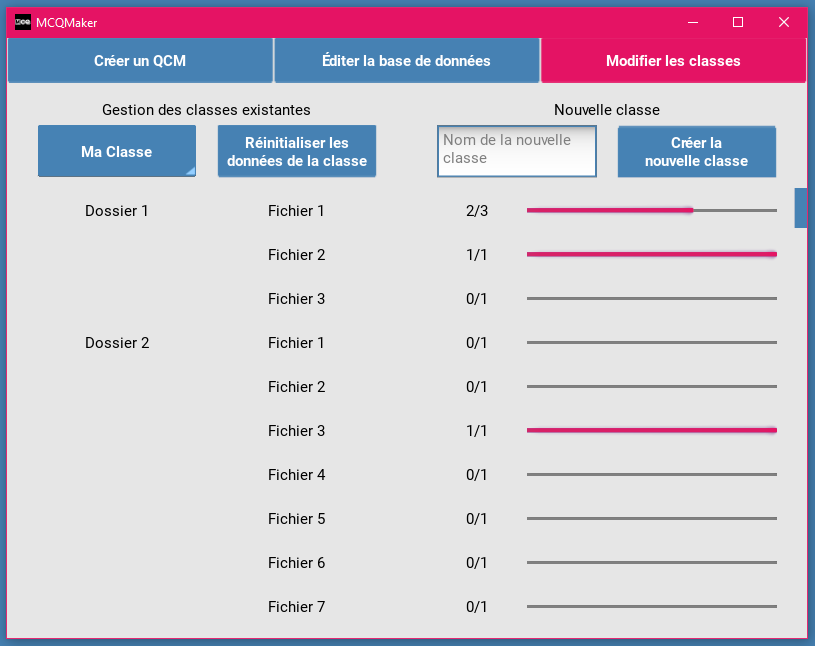
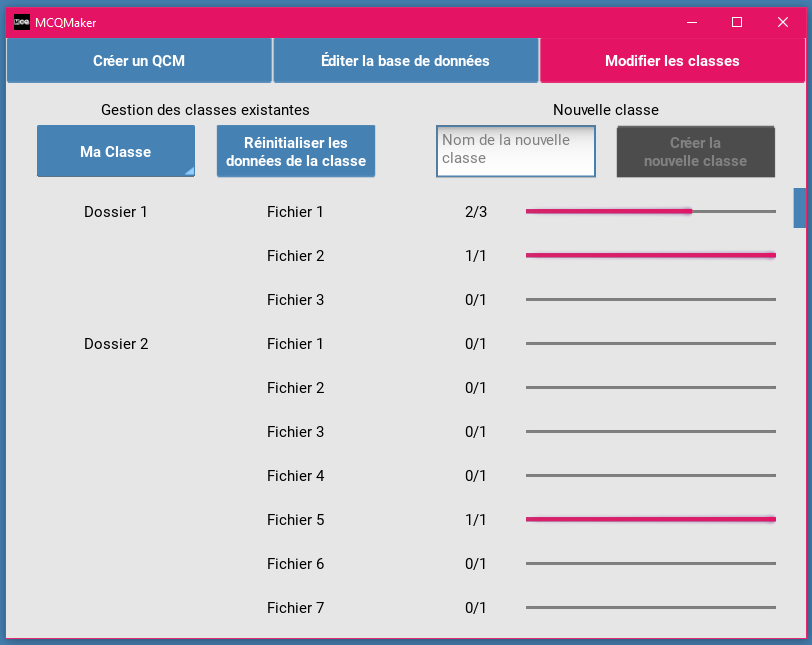
finish the mode of employ + correct a few bugs + write a few docstrings + update todo list with many wonderful ideas git add .git add .!

diff --git a/MCQMaker.py b/MCQMaker.py
@@ -1438,9 +1438,9 @@ class ClassesWindow(Screen):
 
     def reset_class(self):
         SVClassesInst.reset_screen()
-        class_name = self.ids.class_selection.text
+        class_name = self.ids.classes_spinner.text
         self.ids.reset_button.disabled = True
-        self.ids.class_selection.text = self.manager.CLASSES_SPINNER_DEFAULT
+        self.ids.classes_spinner.text = self.manager.CLASSES_SPINNER_DEFAULT
         # Reset the data of the class
         reset_class(class_name)
         create_standard_popup(
@@ -1449,24 +1449,36 @@ class ClassesWindow(Screen):
         )
 
     def create_new_class(self):
+        """
+        Create the new class, if the name entered by the user is valid.
+
+        Parameters
+        ----------
+        None
+
+        Returns
+        -------
+        None
+        """
         SVClassesInst.reset_screen()
         class_name = self.ids.new_class_input.text
         class_name_lower = class_name.lower()
         list_classes_lower = [item.lower() for item in self.list_classes]
+        # When the name is already taken
         if class_name_lower in list_classes_lower:
             create_standard_popup(
                 message=DICT_MESSAGES["error_create_class"][1],
                 title_popup=DICT_MESSAGES["error_create_class"][0]
             )
             return
-        elif class_name != "":
-            # Create the new class
-            save_class(class_name, {})
-            create_standard_popup(
-                message=DICT_MESSAGES["success_create_class"][1],
-                title_popup=DICT_MESSAGES["success_create_class"][0]
-            )
+        # Create the new class
+        save_class(class_name, {})
+        create_standard_popup(
+            message=DICT_MESSAGES["success_create_class"][1],
+            title_popup=DICT_MESSAGES["success_create_class"][0]
+        )
         self.ids.new_class_input.text = ""
+        self.ids.classes_spinner.text = self.manager.CLASSES_SPINNER_DEFAULT
         self.list_classes = [
             self.manager.CLASSES_SPINNER_DEFAULT] + get_list_classes()
 

diff --git a/mode_emploi.md b/mode_emploi.md
@@ -4,6 +4,14 @@ Version 4.0.0
 
 ## Installation
 
+TU VOULAIS METTRE QUOI D'AUTRE ICI ?
+
+Le programme peut être exécuté par la commande suivante :
+```bash
+python MCQMaker.py
+```
+Le raccourci `CTRL`+`F5` sur *VSCode* en étant dans le fichier `MCQMaker.py` peut également être utilisé pour lancer le programme.
+
 ## Utilisation
 
 *MCQMaker* est composé de quatre menus principaux dont l'objectif détaillé est expliqué ci-dessous :
@@ -12,29 +20,61 @@ Version 4.0.0
 - un menu de création et d'édition de bases de données
 - un menu de modification des classes
 
-![]("Ressources/images_readme/main_menu_french.PNG")
-VERIFIER QUE LES 4 IMAGES S'AJOUTENT BIEN, LA CA BUG POUR L'INSTANT
+![](ressources/images_readme/main_menu_french.png)
 
 ### Menu de génération de QCM
 
 Ce menu permet de générer des QCM dans plusieurs formats différents, `txt`, `docx`, `h5p` et `xml`, à partir de configurations créées dans ce menu.
 
-![]("Ressources/images_readme/mcq_menu_french.PNG")
+![](ressources/images_readme/mcq_menu_french.png)
 
 #### Création d'une configuration
 
+Afin de créer une configuration, l'utilisateur doit sélectionner un fichier de la base de données, à l'aide du menu du haut à droite. Après choisi le dossier et le fichier souhaité, l'utilisateur a la possibilité de rentrer le nombre de questions de ce fichier qu'il souhaite dans son QCM. Le nombre de questions disponibles dans le fichier est indiqué à droite de la zone de texte. Il doit ensuite ajouter la base de données en cliquant sur le bouton `+`. Ce nouveau fichier sera donc affiché dans la liste défilante juste en dessous et l'utilisateur aura la possibilité par la suite de modifier le nombre de questions des fichiers déjà choisis.
+
+!!! tip Nombre de questions
+    Le nombre total de questions contenues dans la configuration est affiché sur le menu de gauche. 
+
+
+Avant de la sauvegarder, l'utilisateur doit spécifier son nom dans la zone de texte correspondante. Après l'avoir sauvegardée, il pourra la charger ultérieurement à l'aide du bouton `Charger une configuration`.
+
+!!! info Sélection d'une classe
+    Si l'utilisateur choisit d'utiliser une classe, en vue d'une génération de QCM, il est possible que le nombre total de questions disponibles dans certains fichiers, qui auraient déjà été utilisés par cette classe dans une génération de QCM précédente, soit différent. En cas de dépassement du nombre de questions disponibles, le nombre de questions sélectionnées sera modifié automatiquement pour être égal au maximum.
 
 #### Génération d'un QCM
 
+La génération du QCM est lancée à partir du bouton `Générer le QCM` une fois qu'une configuration a été choisie ou créée.
+
 **Choix de la configuration**
+Afin de choisir une configuration, l'utilisateur doit cliquer sur le bouton `Charger une configuration` où il aura la possibilité d'en créer une nouvelle ou d'en charger une déjà existante. Le nom de la configuration sélectionnée sera celui utilisé en tant que nom du QCM.
+
+!!! note Création d'une nouvelle configuration
+    Il n'est pas du tout nécessaire de passer par ce bouton pour créer une nouvelle configuration. L'utilisateur peut tout simplement sélectionner des fichiers et entrer un nom de configuration.
 
 **Choix de la classe**
+L'utilisateur a la possibilité de choisir une classe avant de procéder à la génération du QCM. Cela limitera les questions choisies lors de la génération du QCM en ne prenant pas celles qui ont déjà été utilisées par cette classe. De plus, si l'utilisateur le souhaite, les questions qui seront utilisées pour cette génération de QCM peuvent être sauvegardées dans la classe, afin qu'elles ne soient pas à nouveau utilisées dans un QCM suivant.
 
 **Choix du template**
-Afin de permettre la génération en `docx`, l'utilisateur doit sélectionner le template Word qu'il souhaite utiliser 
-
+Afin de permettre la génération en `docx`, l'utilisateur doit sélectionner le template Word qu'il souhaite utiliser. Un template par défaut a été fourni, mais il est tout à fait possible pour l'utilisateur de le modifier, en particulier son style, tant que les conventions suivantes sont conservées :
+- pour afficher le titre du QCM, si l'utilisateur souhaite le spécifier, la syntaxe `{NAME_MCQ}` doit être utilisée.
+- pour afficher la liste des questions, les indicateurs `### LIST_QUESTIONS_START ###`, pour indiquer le début de cette liste, et `### LIST_QUESTIONS_END ###`, pour indiquer sa fin, doivent être présents.
+- pour chaque question, les conventions suivantes sont utilisées :
+  - `{ID_QUESTION}` pour afficher le numéro de la question
+  - `{QUESTION}` pour afficher la question
+  - `{LIST_OPTIONS}` pour afficher toutes les options
 
 **Options supplémentaires**
+L'utilisateur a également la possibilité de personnaliser le QCM créé notamment à l'aide des trois cases à cocher :
+- `Mélanger par parties` permet de mélanger les questions au sein d'un même fichier de la base de données.
+- `Mélanger toutes les questions` permet de mélanger toutes les questions du QCM, que ce soit au sein d'un même fichier de la base de données ou entre ces fichiers.
+- `Stocker les données dans la classe` permet d'enregistrer dans la classe sélectionnée les questions sélectionnées pour cette génération, ce qui permet d'éviter des doublons avec le prochain QCM.
+
+**Sauvegarde du QCM**
+METTRE ICI LES DIFFERENTS FORMATS SI ON FAIT CA (METTRE LA CAPTURE D'ECRAN DE LA POPUP SI ON LA FAIT)
+Le QCM généré, sous ses différents formats, est sauvegardé dans le dossier `Export` : un dossier contenant tous les formats souhaités aura alors été créé, ayant pour nom celui de la configuration joint à celui de la classe sélectionnée.
+
+!!! warning Sauvegarde des QCM
+    Il est vivement conseillé à l'utilisateur de ne pas laisser tous ses QCM dans le dossier d'export et de les sauvegarder ailleurs, car dès qu'une autre génération de QCM avec la même configuration et la même classe aura lieu, le QCM précédemment généré sera effacé au profit du nouveau.
 
 ### Menu d'édition de bases de données
 
@@ -66,22 +106,23 @@ Lors de la sauvegarde d'un fichier, plusieurs vérifications sont effectuées su
 - ensuite, un message d'erreur apparaîtra si aucune bonne réponse n'a été sélectionnée, interrompant la sauvegarde de la totalité de la base de données. L'utilisateur devra sélectionner une bonne réponse dans la question considérée puis sauvegarder à nouveau le fichier.
 - finalement, une option vide ne sera pas considérée et donc non sauvegardée. S'il se trouvait qu'il s'agissait de l'unique bonne réponse à la question, le même message d'erreur que précédemment sera affiché.
 
-!!! warning Attention quant à la sauvegarde
-    Si l'utilisateur change de fichier ou de dossier avant d'avoir sauvegardé le fichier qu'il était en train d'éditer ses modifications seront perdues.
+!!! warning Sauvegarde du fichier en cours d'édition
+    Si l'utilisateur change de fichier ou de dossier sans avoir sauvegardé au préalable le fichier qu'il était en train d'éditer, ses modifications seront perdues.
 
 ### Menu de modification des classes
 
 Ce menu permet de gérer les classes qui seront utilisables dans le menu de génération de QCM. 
-![]("Ressources/images_readme/class_menu_french.PNG")
+
+![](ressources/images_readme/class_menu_french.png)
 
 **Classes existantes**
-La partie en haut à gauche du menu permet à l'utilisateur de sélectionner une classe déjà existante. Le contenu de la classe sélectionnée sera affichée dans la partie inférieure de la fenêtre, où pour chaque fichier de la base de données, le ratio du nombre de questions utilisées restantes par rapport au nombre total de question sera affiché. L'utilisateur permet réinitialiser les données de cette classe en cliquant sur le bouton approprié : cela signifie que toutes les questions de tous les fichiers de la base de données seront de nouveau accessibles à la classe.
+La partie en haut à gauche du menu permet à l'utilisateur de sélectionner une classe déjà existante. Le contenu de la classe sélectionnée sera affichée dans la partie inférieure de la fenêtre, où pour chaque fichier de la base de données, le ratio du nombre de questions utilisées par rapport au nombre total de questions sera affiché. L'utilisateur permet réinitialiser les données de cette classe en cliquant sur le bouton approprié : cela signifie que toutes les questions de tous les fichiers de la base de données seront de nouveau accessibles à la classe.
 
-!!! warning Attention quant à la réinitialisation des données
-    Aucun retour en arrière n'est possible après avoir supprimé le contenu d'une classe.
+!!! warning Réinitialisation des données
+    Réinitiliser les données d'une classe est une action irréversible.
 
 **Création de classe**
-La partie de droite de ce menu permet de créer une nouvelle classe, après que l'utilisateur ait spécifié son nom dans la zone de texte correspondante. L'utilisateur ne pourra pas créer de classe ayant le même nom qu'une classe déjà existante.
+La partie de droite de ce menu permet de créer une nouvelle classe, après que l'utilisateur a spécifié son nom dans la zone de texte correspondante. L'utilisateur ne pourra pas créer une classe ayant le même nom qu'une classe déjà existante.
 
 ## Première utilisation
 
@@ -93,4 +134,10 @@ Il peut ensuite procéder à la génération du QCM en se rendant dans le premie
 
 ## Crédits
 
+Ce logiciel a été développé par Paul Creusy, pour la partie *backend*, et Agathe Plu pour la partie *frontend*. 
+Les auteurs remercient leurs Mamans pour leur avoir demandé ce projet et l'avoir testé. 
+ça te va ? ;) (dans tous les cas pour le readme sur le github, on changera ça pour mettre LUPA non ?)
+
 ## Licence
+
+A COMPLETER

diff --git a/todo.md b/todo.md
@@ -22,6 +22,10 @@
 - [x] put a condition to scroll to if there are not enough items
 - [x] delete the databases where there is no questions
 - [ ] put a popup warning the user that some questions have been deleted
+- [ ] Mélanger toutes les questions => mélanger par parties non ? Et du coup, je devrais cocher mélanger par parties à chaque fois que mélanger toutes les questions est coché non ? OUI
+- [ ] Et pour Stocker les données dans la classe, il ne faudrait pas que la case soit cochable ou cochée s'il n'y a pas de classe sélectionnée non ? OUI
+- [ ] Oh et un autre truc qu'on n'a pas fait dans MCQMaker, c'est si une configuration a déjà le nom précisé par l'utilisateur, on lui met un message d'erreur ? (le problème c'est que moi je n'ai pas accès aux noms des configs qui existent déjà, du coup il faudrait que tu me les donnes. Ok, tu vas me détester encore 😅 mais j'écris le manuel d'utilisation pour me faire pardonner 😘) Ou du moins un message de warning car ça peut être voulu (édition d'une config déjà sauvegardée) et on ne mettrait ce message que quand il n'a pas chargé de config pour éviter de tout le temps le souler (là dans ce cas, c'est vraiment qu'il crée une config du même nom qu'une existante, et pas quand il l'édite) => OUI AVEC UN WARNING
+- [ ] mettre la popup avec le choix des formats pour l'export CAR C'EST MIEUX COMME CA !!!!!!!!!! (quoi que tu puisses en dire)
 
 ### Database
 
@@ -46,6 +50,10 @@
 - [x] change the icon of the main window
 - [x] Ajouter une scrollbar parce que c'est leeeeeennnnnnnnntt > merci mon chéri <3
 
-### Pour ta Maman
+### Pour ta Maman <3
 
 - [ ] enlever le spinner pour les templates (et du coup enlever à chaque fois qu'on l'appelle)
+
+### Pour ma Maman <3
+
+- [ ] faire en sorte qu'il puisse y avoir plusieurs bonnes réponses (du coup ça change pas mal de choses dans la vérification)
